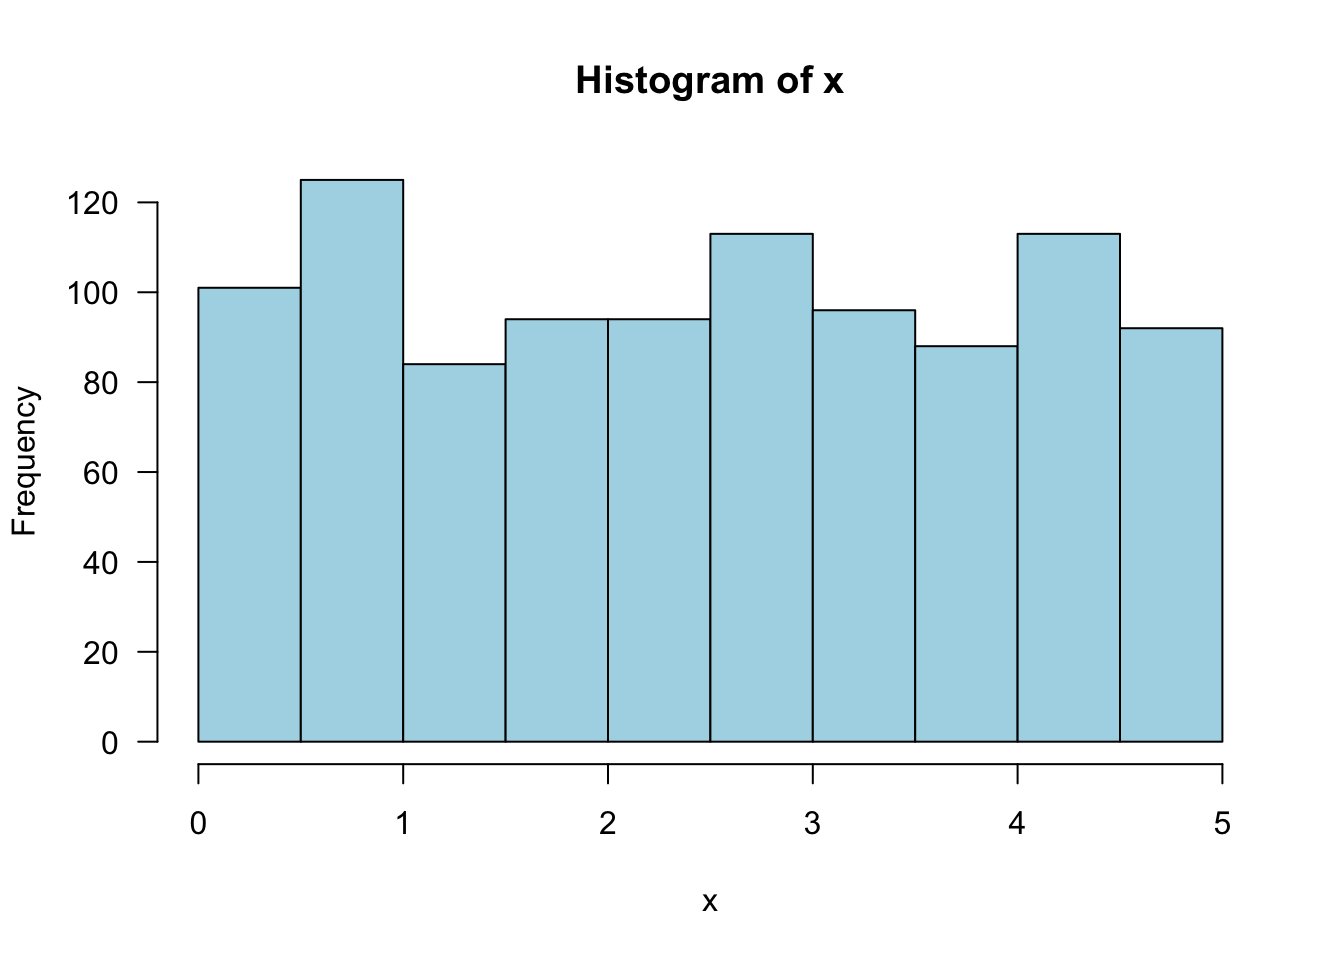
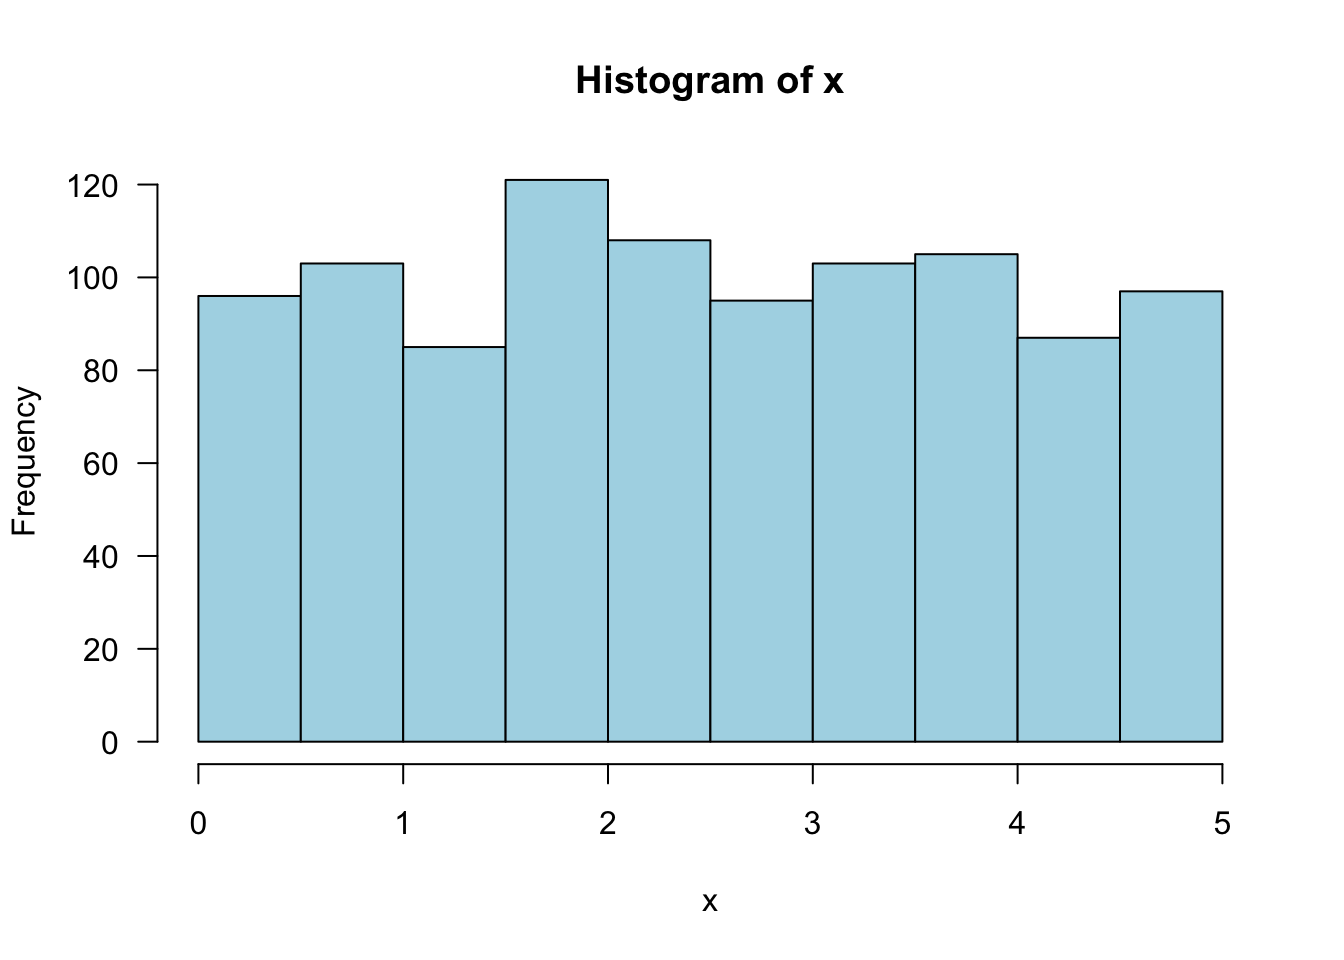
render

diff --git a/docs/ch-4-continuous-random-variables-and-probability-distributions.html b/docs/ch-4-continuous-random-variables-and-probability-distributions.html
@@ -24,7 +24,7 @@
 <meta name="author" content="Joyce Robbins" />
 
 
-<meta name="date" content="2020-09-11" />
+<meta name="date" content="2020-10-26" />
 
   <meta name="viewport" content="width=device-width, initial-scale=1" />
   <meta name="apple-mobile-web-app-capable" content="yes" />
@@ -332,11 +332,11 @@ code span.wa { color: #60a0b0; font-weight: bold; font-style: italic; } /* Warni
 <p>Randomly choose one number from the distribution:</p>
 <p><span class="math inline">\(f(x) = .2\)</span> for <span class="math inline">\(0 \leq x \leq 5\)</span>, 0 otherwise.</p>
 <div class="sourceCode" id="cb149"><pre class="sourceCode r"><code class="sourceCode r"><span id="cb149-1"><a href="ch-4-continuous-random-variables-and-probability-distributions.html#cb149-1"></a><span class="kw">runif</span>(<span class="dt">n =</span> <span class="dv">1</span>, <span class="dt">min =</span> <span class="dv">0</span>, <span class="dt">max =</span> <span class="dv">5</span>)</span></code></pre></div>
-<pre><code>## [1] 0.1092929</code></pre>
+<pre><code>## [1] 0.7404691</code></pre>
 <p>Take the average of 1000 picks:</p>
 <div class="sourceCode" id="cb151"><pre class="sourceCode r"><code class="sourceCode r"><span id="cb151-1"><a href="ch-4-continuous-random-variables-and-probability-distributions.html#cb151-1"></a>x &lt;-<span class="st"> </span><span class="kw">runif</span>(<span class="dt">n =</span> <span class="dv">1000</span>, <span class="dt">min =</span> <span class="dv">0</span>, <span class="dt">max =</span> <span class="dv">5</span>)</span>
 <span id="cb151-2"><a href="ch-4-continuous-random-variables-and-probability-distributions.html#cb151-2"></a><span class="kw">mean</span>(x)</span></code></pre></div>
-<pre><code>## [1] 2.47106</code></pre>
+<pre><code>## [1] 2.474648</code></pre>
 <p>Draw a histogram of the 1000 picks:</p>
 <div class="sourceCode" id="cb153"><pre class="sourceCode r"><code class="sourceCode r"><span id="cb153-1"><a href="ch-4-continuous-random-variables-and-probability-distributions.html#cb153-1"></a><span class="kw">hist</span>(x, <span class="dt">las =</span> <span class="dv">1</span>, <span class="dt">col =</span> <span class="st">&quot;lightblue&quot;</span>)</span></code></pre></div>
 <p><img src="STAT1201-resource_files/figure-html/unnamed-chunk-41-1.png" width="672" /></p>

diff --git a/docs/index.html b/docs/index.html
@@ -24,7 +24,7 @@
 <meta name="author" content="Joyce Robbins" />
 
 
-<meta name="date" content="2020-09-11" />
+<meta name="date" content="2020-10-26" />
 
   <meta name="viewport" content="width=device-width, initial-scale=1" />
   <meta name="apple-mobile-web-app-capable" content="yes" />
@@ -323,7 +323,7 @@ code span.wa { color: #60a0b0; font-weight: bold; font-style: italic; } /* Warni
 <div id="header">
 <h1 class="title">Stat 1201 Resources</h1>
 <p class="author"><em>Joyce Robbins</em></p>
-<p class="date"><em>2020-09-11</em></p>
+<p class="date"><em>2020-10-26</em></p>
 </div>
 <div id="syllabus" class="section level1 unnumbered" number="">
 <h1>Syllabus</h1>
@@ -346,7 +346,8 @@ code span.wa { color: #60a0b0; font-weight: bold; font-style: italic; } /* Warni
 <h2>Instructor</h2>
 <p>Joyce Robbins: <a href="mailto:jtr13@columbia.edu">jtr13@columbia.edu</a> tel: 212-853-1391</p>
 <p>Office hours:</p>
-<p>TBD</p>
+<p>Tuesdays 2-3pm, Wednesdays 10:30-11am</p>
+<p><strong>See <a href="https://courseworks2.columbia.edu/courses/107925/pages/prof-robbinss-office-hour-signup-tues-2-3pm-wed-10-30-11am">Prof. Robbins’s Office Hours Signup</a> in CourseWorks for Zoom link and to sign up.</strong></p>
 </div>
 <div id="teaching-assistant" class="section level2 unnumbered" number="">
 <h2>Teaching assistant</h2>
@@ -515,8 +516,8 @@ F
 <li>Thurs, Sept 24</li>
 <li>Tues, Oct 6</li>
 <li>Tues, Oct 20</li>
-<li>Thurs, Oct 29</li>
-<li>Thurs, Nov 12</li>
+<li>(Thurs, Oct 29) CANCELLED</li>
+<li>(Thurs, Nov 12) MOVED to Mon, Nov 9</li>
 <li>Tues, Dec 1</li>
 <li>Thurs, Dec 10</li>
 </ol>

diff --git a/docs/introduction.html b/docs/introduction.html
@@ -24,7 +24,7 @@
 <meta name="author" content="Joyce Robbins" />
 
 
-<meta name="date" content="2020-09-11" />
+<meta name="date" content="2020-10-26" />
 
   <meta name="viewport" content="width=device-width, initial-scale=1" />
   <meta name="apple-mobile-web-app-capable" content="yes" />
@@ -359,6 +359,7 @@ code span.wa { color: #60a0b0; font-weight: bold; font-style: italic; } /* Warni
 </div>
 <div id="getting-started-with-r" class="section level2 unnumbered" number="">
 <h2>Getting Started with R</h2>
+<p>Video: <iframe width="560" height="315" src="https://www.youtube.com/embed/tQvtYdLvSSg" frameborder="0" allow="accelerometer; autoplay; encrypted-media; gyroscope; picture-in-picture" allowfullscreen></iframe></p>
 <p>To get oriented, read and try the examples in <a href="https://monashdatafluency.github.io/r-intro-2/starting-out-in-r.html" target="_blank">Chapter 1 of Introduction to R</a></p>
 <div id="quick-intro-to-rstudio-console" class="section level3 unnumbered" number="">
 <h3>Quick intro to RStudio Console</h3>

diff --git a/docs/ch-1-descriptive-statistics.html b/docs/ch-1-descriptive-statistics.html
@@ -24,7 +24,7 @@
 <meta name="author" content="Joyce Robbins" />
 
 
-<meta name="date" content="2020-09-11" />
+<meta name="date" content="2020-10-26" />
 
   <meta name="viewport" content="width=device-width, initial-scale=1" />
   <meta name="apple-mobile-web-app-capable" content="yes" />

diff --git a/docs/ch-12-linear-regression.html b/docs/ch-12-linear-regression.html
@@ -24,7 +24,7 @@
 <meta name="author" content="Joyce Robbins" />
 
 
-<meta name="date" content="2020-09-11" />
+<meta name="date" content="2020-10-26" />
 
   <meta name="viewport" content="width=device-width, initial-scale=1" />
   <meta name="apple-mobile-web-app-capable" content="yes" />

diff --git a/docs/ch-13-nonlinear-and-multiple-regression.html b/docs/ch-13-nonlinear-and-multiple-regression.html
@@ -24,7 +24,7 @@
 <meta name="author" content="Joyce Robbins" />
 
 
-<meta name="date" content="2020-09-11" />
+<meta name="date" content="2020-10-26" />
 
   <meta name="viewport" content="width=device-width, initial-scale=1" />
   <meta name="apple-mobile-web-app-capable" content="yes" />

diff --git a/docs/ch-14-chi-squared-test.html b/docs/ch-14-chi-squared-test.html
@@ -24,7 +24,7 @@
 <meta name="author" content="Joyce Robbins" />
 
 
-<meta name="date" content="2020-09-11" />
+<meta name="date" content="2020-10-26" />
 
   <meta name="viewport" content="width=device-width, initial-scale=1" />
   <meta name="apple-mobile-web-app-capable" content="yes" />

diff --git a/docs/ch-2-conditional-probability.html b/docs/ch-2-conditional-probability.html
@@ -24,7 +24,7 @@
 <meta name="author" content="Joyce Robbins" />
 
 
-<meta name="date" content="2020-09-11" />
+<meta name="date" content="2020-10-26" />
 
   <meta name="viewport" content="width=device-width, initial-scale=1" />
   <meta name="apple-mobile-web-app-capable" content="yes" />

diff --git a/docs/ch-2-probability.html b/docs/ch-2-probability.html
@@ -24,7 +24,7 @@
 <meta name="author" content="Joyce Robbins" />
 
 
-<meta name="date" content="2020-09-11" />
+<meta name="date" content="2020-10-26" />
 
   <meta name="viewport" content="width=device-width, initial-scale=1" />
   <meta name="apple-mobile-web-app-capable" content="yes" />

diff --git a/docs/ch-3-discrete-distributions.html b/docs/ch-3-discrete-distributions.html
@@ -24,7 +24,7 @@
 <meta name="author" content="Joyce Robbins" />
 
 
-<meta name="date" content="2020-09-11" />
+<meta name="date" content="2020-10-26" />
 
   <meta name="viewport" content="width=device-width, initial-scale=1" />
   <meta name="apple-mobile-web-app-capable" content="yes" />

diff --git a/docs/ch-5-joint-probability.html b/docs/ch-5-joint-probability.html
@@ -24,7 +24,7 @@
 <meta name="author" content="Joyce Robbins" />
 
 
-<meta name="date" content="2020-09-11" />
+<meta name="date" content="2020-10-26" />
 
   <meta name="viewport" content="width=device-width, initial-scale=1" />
   <meta name="apple-mobile-web-app-capable" content="yes" />

diff --git a/docs/ch-5-random-samples.html b/docs/ch-5-random-samples.html
@@ -24,7 +24,7 @@
 <meta name="author" content="Joyce Robbins" />
 
 
-<meta name="date" content="2020-09-11" />
+<meta name="date" content="2020-10-26" />
 
   <meta name="viewport" content="width=device-width, initial-scale=1" />
   <meta name="apple-mobile-web-app-capable" content="yes" />
